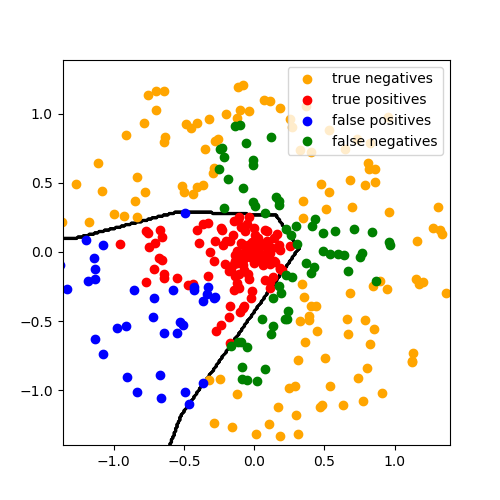
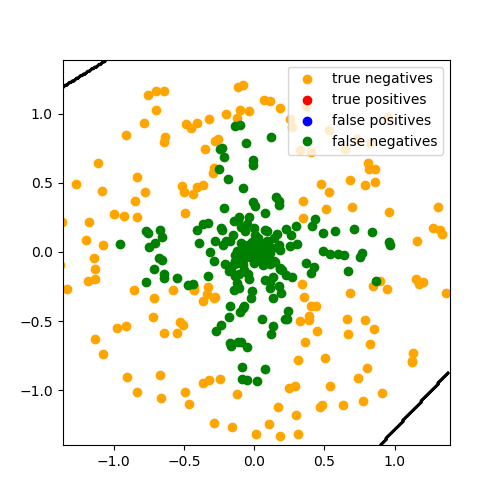
ex 2

diff --git a/pattern-recognition-2019/ex5/code/ex5_NN_2_Parabola.py b/pattern-recognition-2019/ex5/code/ex5_NN_2_Parabola.py
@@ -20,7 +20,7 @@ def parabolaData() -> None:
     batch_size = nTrainSamples/100         # Define training batch size
     model = mySimpleNN(X_train.shape[1])   # Initialize the 'mySimpleNN' instance
     optimizer = torch.optim.Adam(model.parameters(), lr=0.0001)           # Define optimizer to use from torch.optim.xxx
-    criterion = torch.nn.CrossEntropyLoss(reduction='sum')       # Define model cost function torch.nn.xxx
+    criterion = torch.nn.MSELoss(reduction='sum')      # Define model cost function torch.nn.xxx
     epocs = 100        # Total number of epocs to execute
 
     trainer = Trainer(model, optimizer, criterion)
